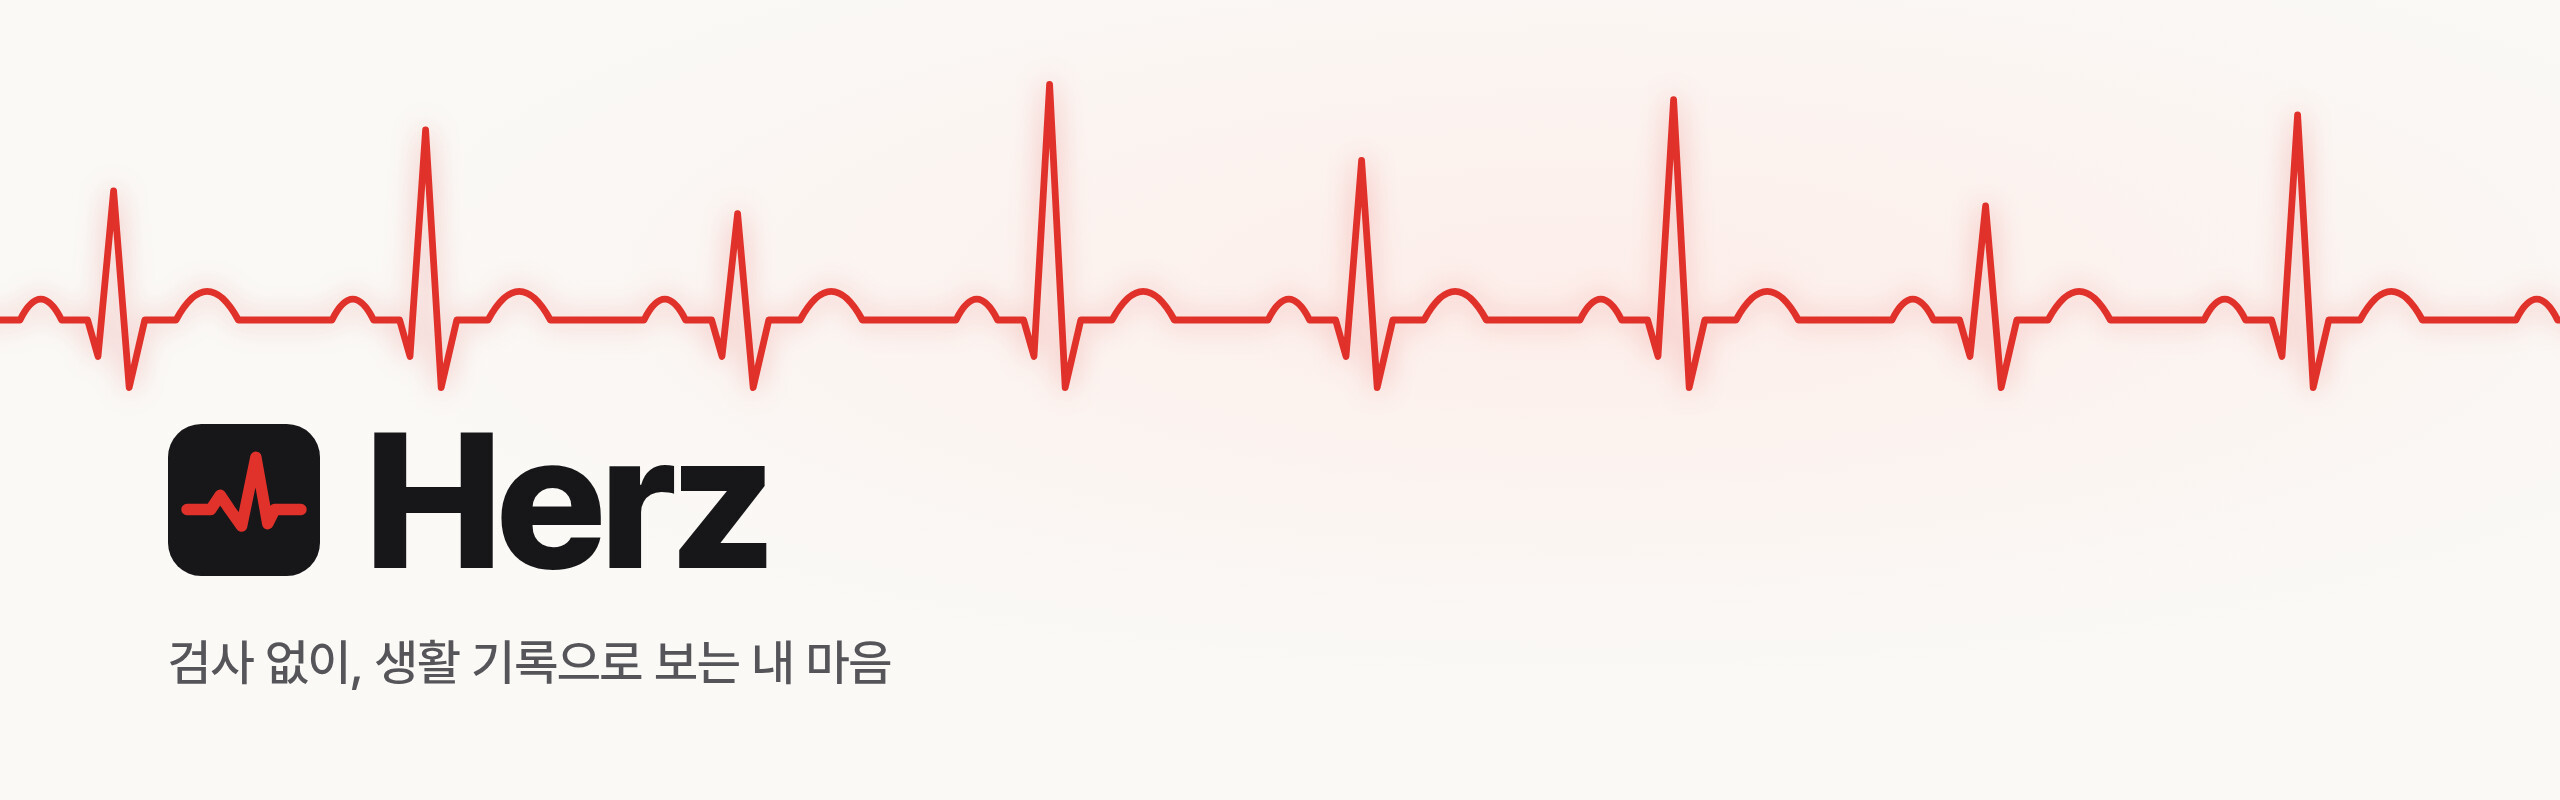
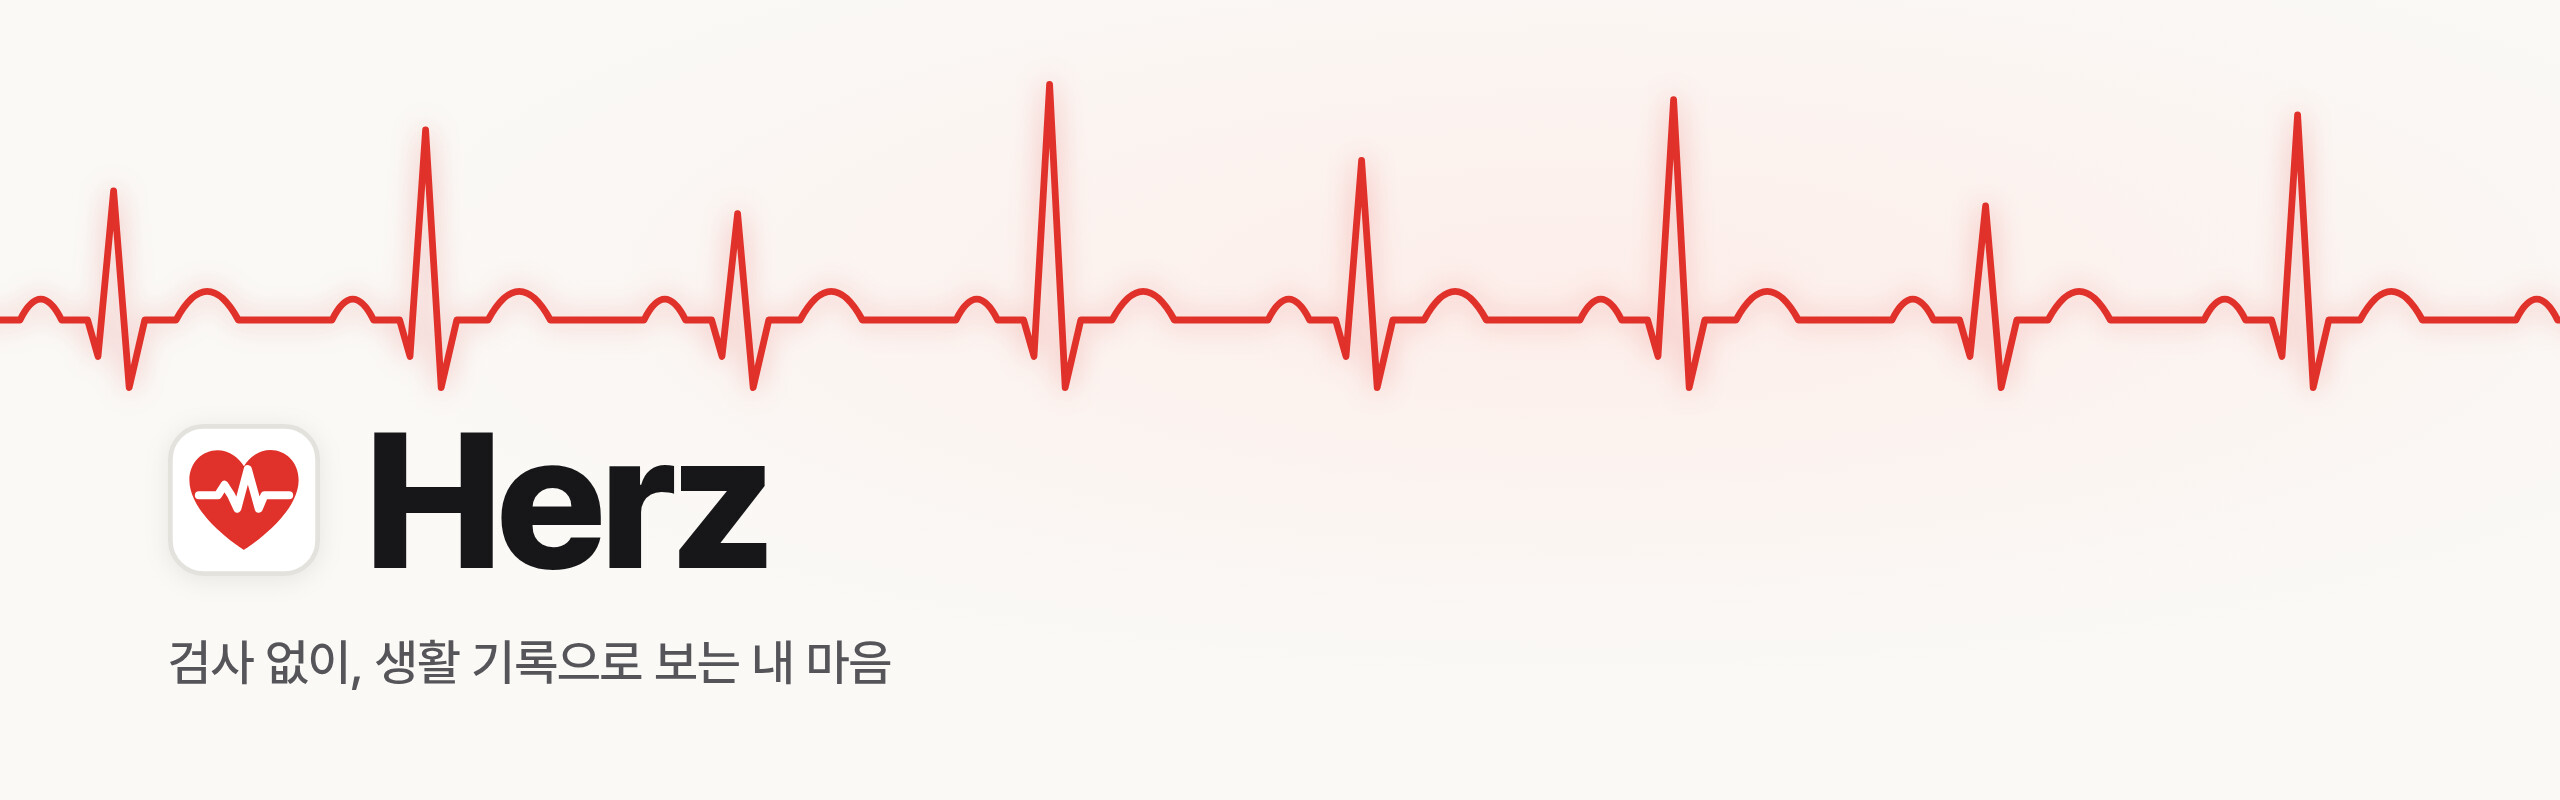
README: 배너 아이콘을 흰 바탕의 빨간 하트와 심전도 선으로

Changed region(s): [[0.0625, 0.5312, 0.125, 0.7188]]

diff --git a/docs/readme/banner.html b/docs/readme/banner.html
@@ -8,13 +8,13 @@ html,body{margin:0;width:1280px;height:400px;overflow:hidden;background:#faf9f6}
 .pulse path{fill:none;stroke:#e0322b;stroke-width:3.4;stroke-linecap:round;stroke-linejoin:round;filter:drop-shadow(0 0 7px rgb(224 50 43 / 35%))}
 .t{position:absolute;left:84px;bottom:54px;font-family:'Pretendard Variable',Pretendard,sans-serif;color:#17171a}
 .m{display:flex;align-items:center;gap:22px}
-.m svg{width:76px;height:76px}
+.m svg{width:76px;height:76px;filter:drop-shadow(0 2px 6px rgb(0 0 0 / 8%))}
 h1{margin:0;font-size:96px;font-weight:800;letter-spacing:-.04em;line-height:1}
 p{margin:18px 0 0;font-size:25px;font-weight:500;color:#55555a;letter-spacing:-.01em}
 </style>
 <div class="b">
 <svg class="pulse" viewBox="0 0 1280 400" aria-hidden="true"><path id="beat"/></svg>
-<div class="t"><div class="m"><svg viewBox="0 0 32 32"><rect width="32" height="32" rx="7" fill="#17171a"/><path d="M4 18h5l2-3 2 3 2.5 3.5L18.5 7l2.5 14 1.5-3h5.5" fill="none" stroke="#e0322b" stroke-width="2.4" stroke-linecap="round" stroke-linejoin="round"/></svg><h1>Herz</h1></div><p>검사 없이, 생활 기록으로 보는 내 마음</p></div>
+<div class="t"><div class="m"><svg viewBox="0 0 32 32"><rect x=".5" y=".5" width="31" height="31" rx="7" fill="#fff" stroke="#e4e2dd"/><path d="M16 26.5C16 26.5 4.5 19.4 4.5 11.8 4.5 8 7.3 5.5 10.4 5.5c2.5 0 4.4 1.5 5.6 3.4 1.2-1.9 3.1-3.4 5.6-3.4 3.1 0 5.9 2.5 5.9 6.3 0 7.6-11.5 14.7-11.5 14.7Z" fill="#e0322b"/><path d="M6.5 15h4l1.4-2.2 1.4 2.2 1.3 2.8 2.2-8.3 2.3 8.3 1.2-2.8h5.2" fill="none" stroke="#fff" stroke-width="1.7" stroke-linecap="round" stroke-linejoin="round"/></svg><h1>Herz</h1></div><p>검사 없이, 생활 기록으로 보는 내 마음</p></div>
 </div>
 <script>
 // One beat per day, as in the sign-up screen: the R peak height stands for that day's record.
